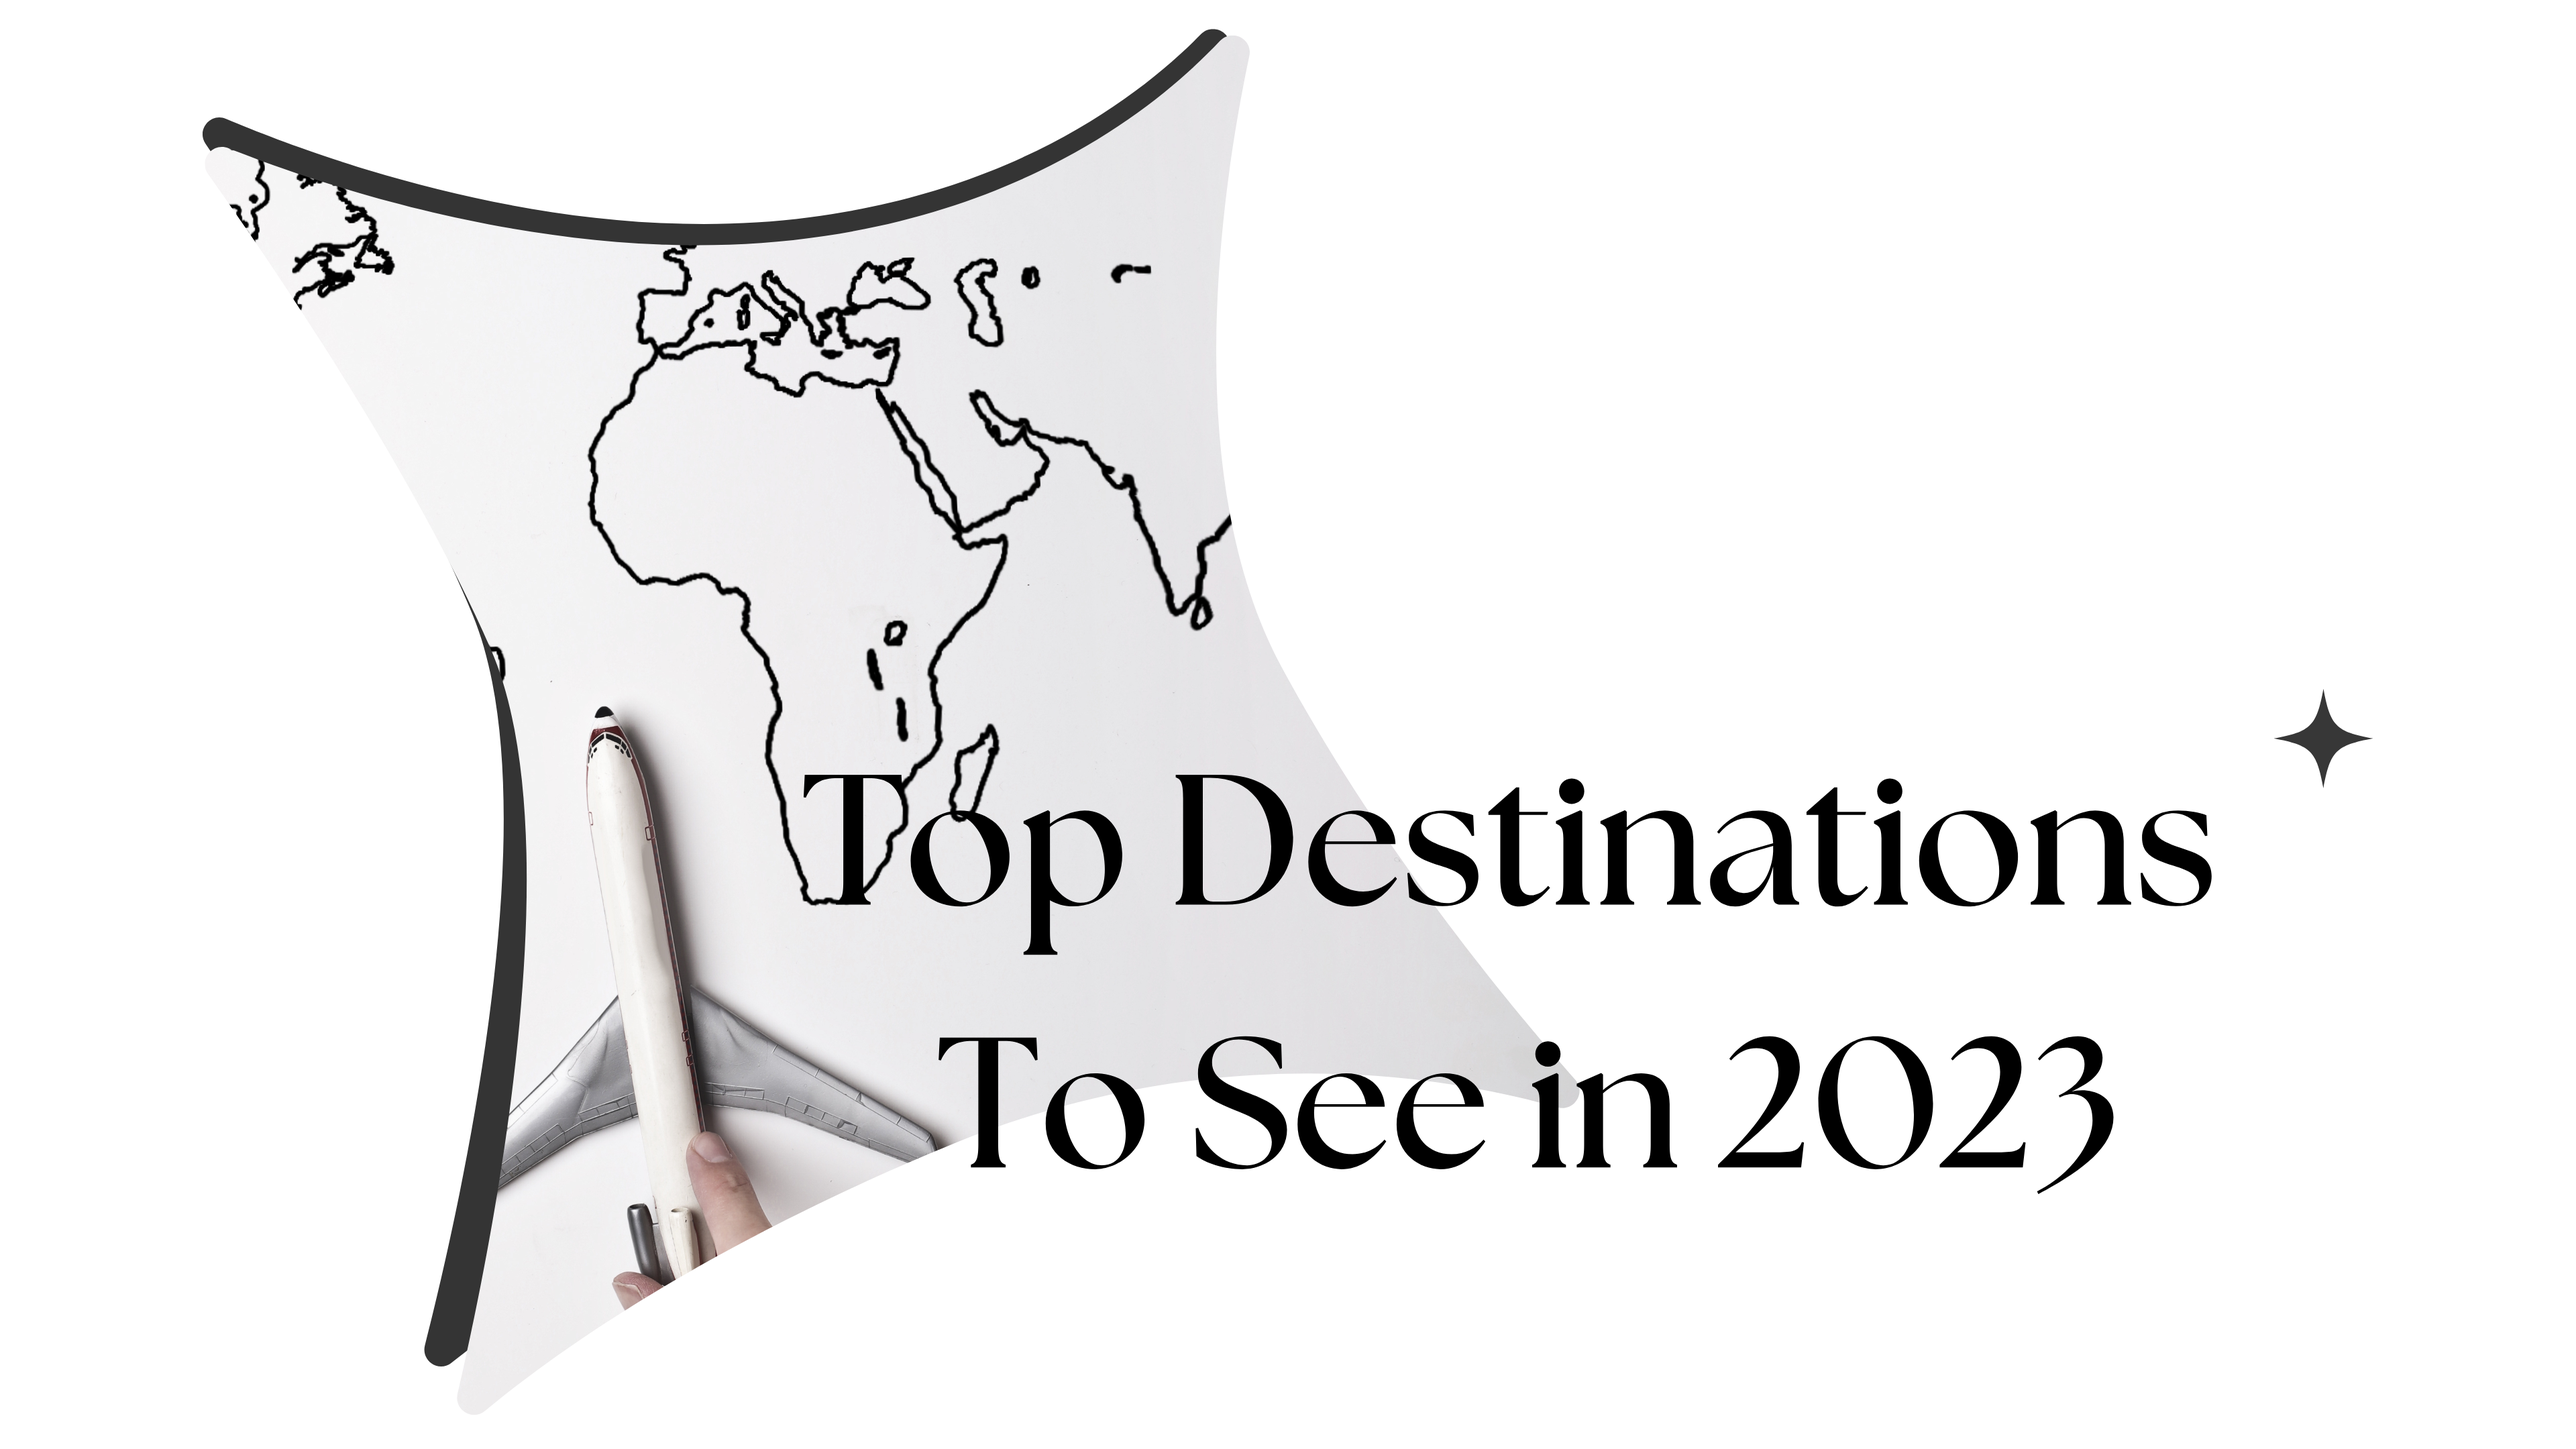
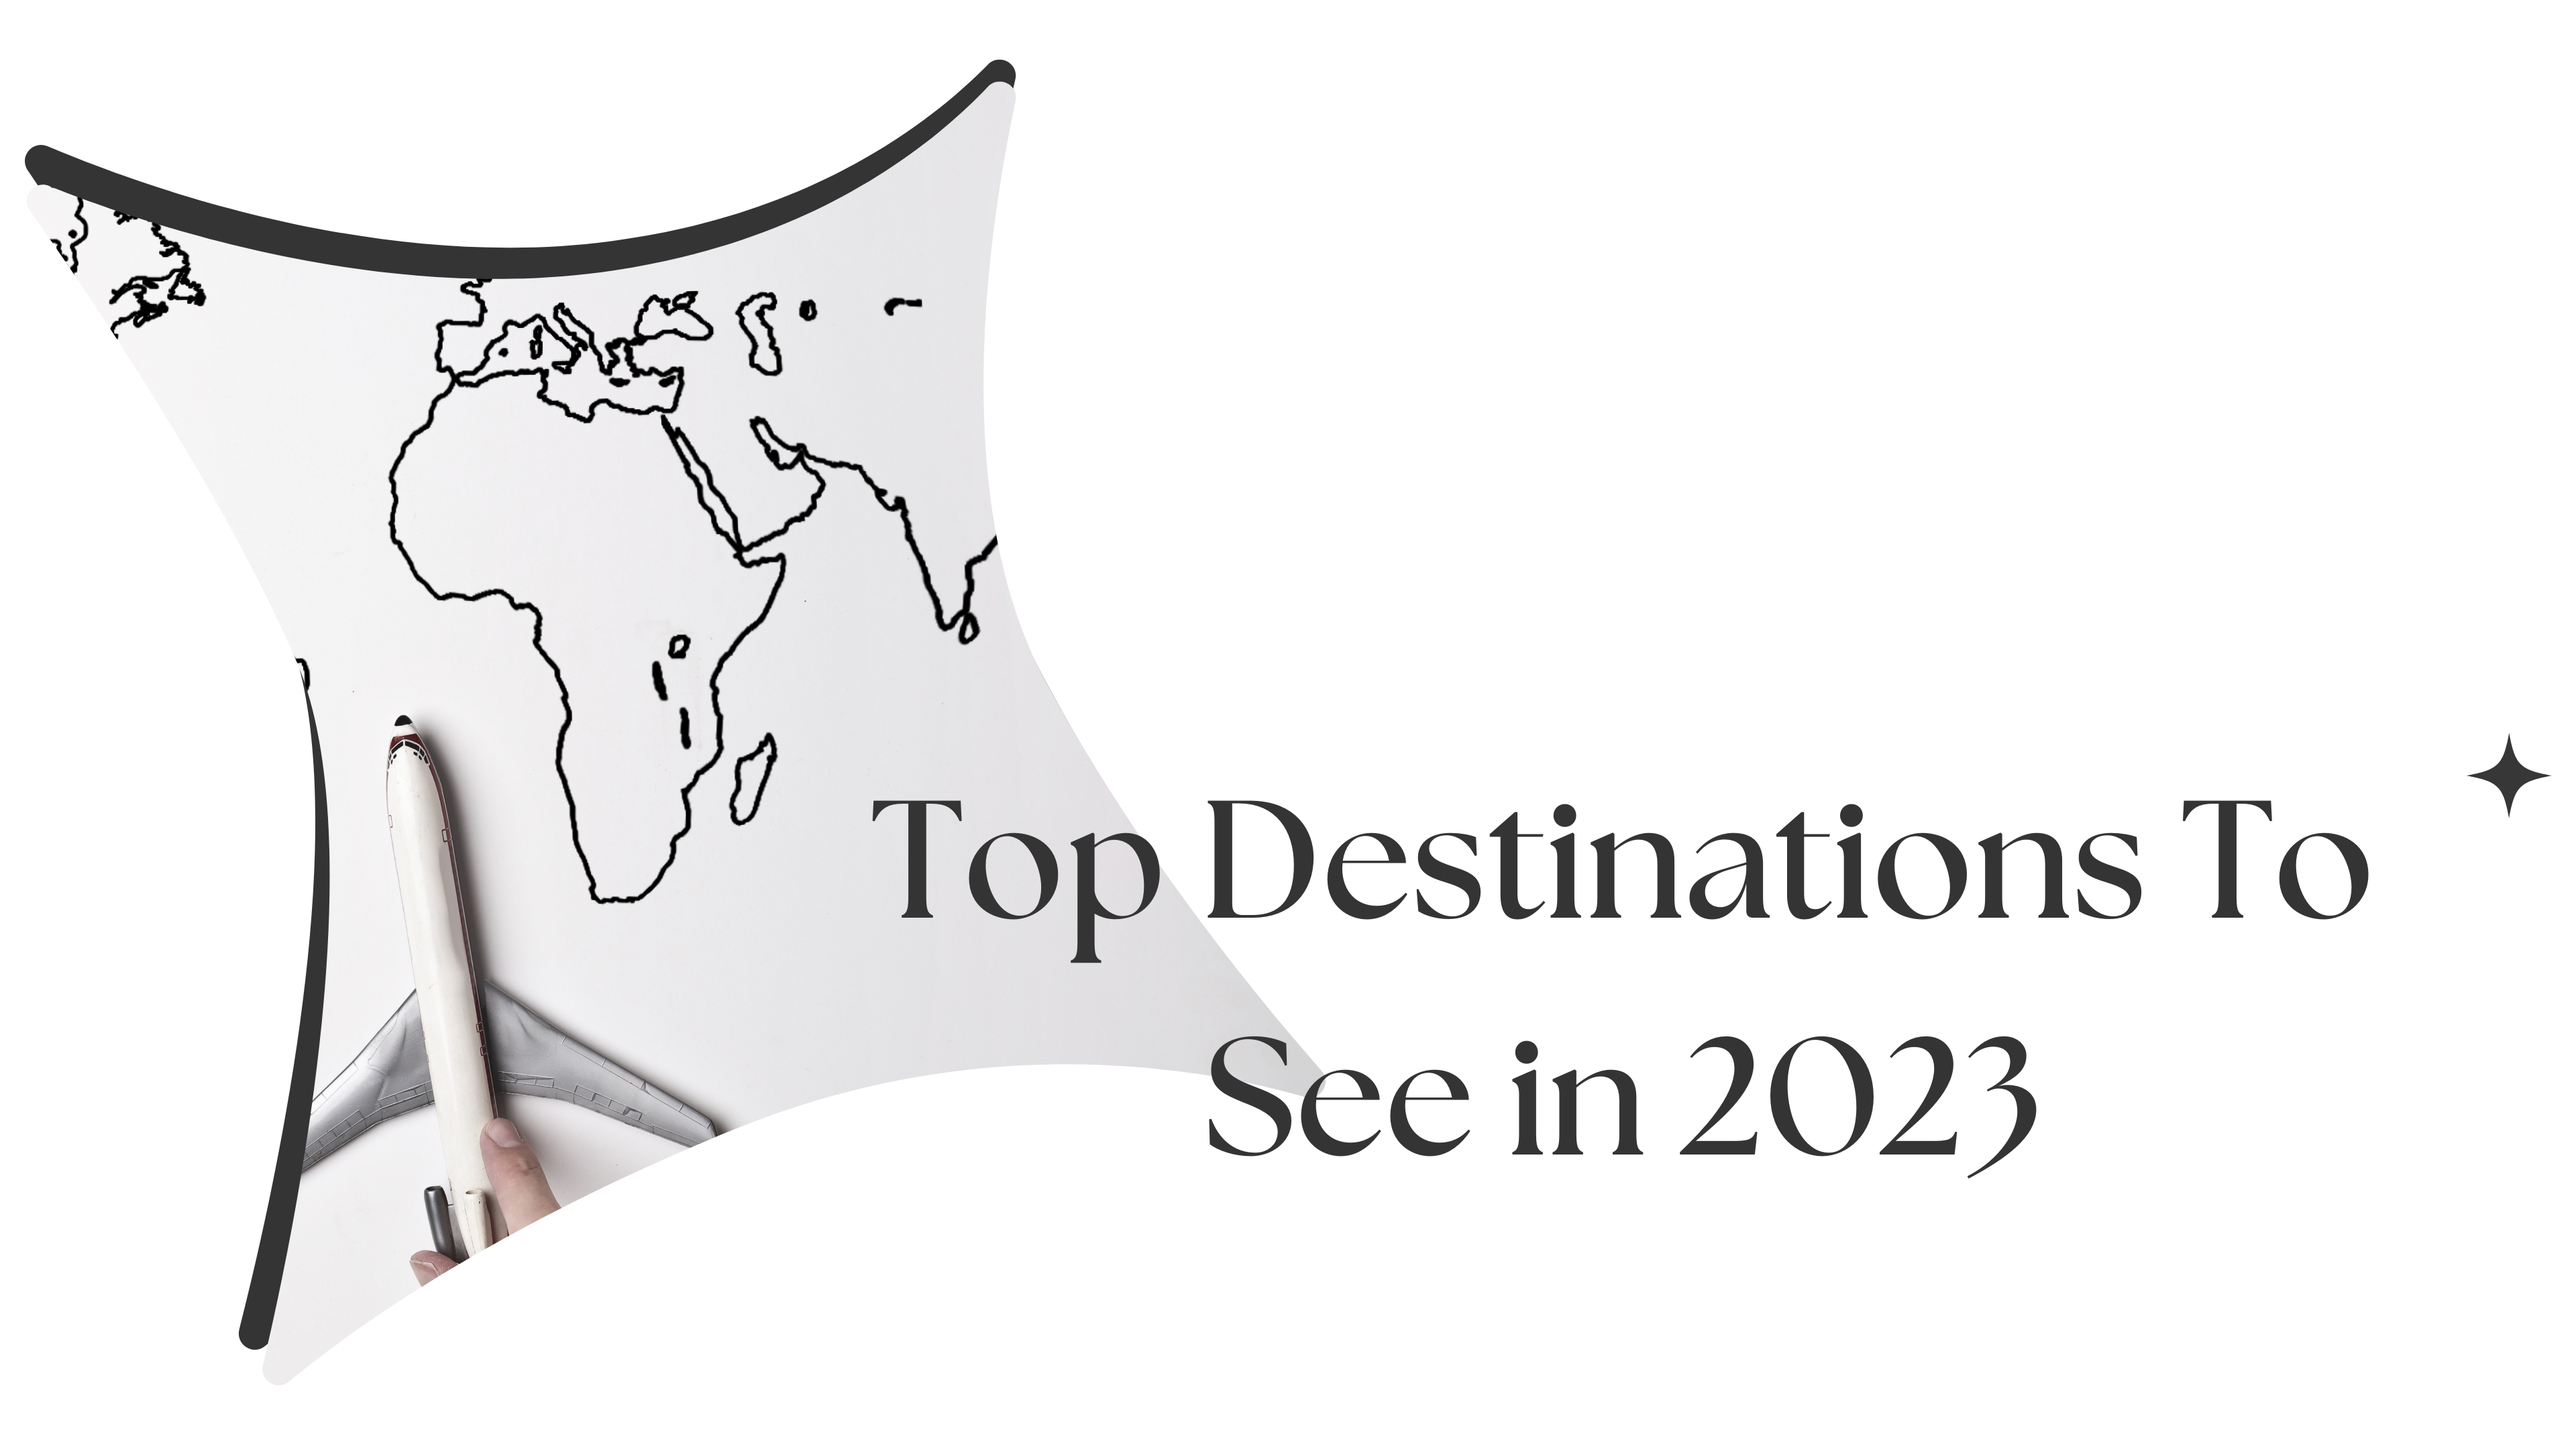
landing page css

Changed region(s): [[0.0, 0.0, 0.9375, 0.9616], [0.875, 0.4963, 0.9375, 0.5273], [0.9688, 0.5273, 1.0, 0.5583]]

diff --git a/client/src/components/LandingPage.js b/client/src/components/LandingPage.js
@@ -1,23 +1,96 @@
-import React from 'react'
+// import React from 'react'
 import Home from './Home'
+import React, { useState } from "react";
+import {BrowserRouter as Switch, Route} from "react-router-dom";
+// import { Switch, Routes } from "react-router-dom";
+import Login from "./Login";
+import Signup from "./Signup";
+import NavBar from "./NavBar";
+import DestinationsPage from "./DestinationsPage";
+import Profile from "./Profile";
+// import dots from './dots.png'
+// import dots2 from './dots2.png'
+import MapImg from './MapImg.png'
+import Spiral from './spiral.png'
+
 
 function LandingPage(){
 
 
-    return(
-        <div>
-            <h1>Roam</h1>
-            <div>Login or Signup</div>
-            <h1> Top Destinations to See in 2023</h1>
-            <h4> Email:</h4>
-            <h5> roam@traveldestinations.co</h5>
-            <h4> Web</h4>
-            <h5> roam.com</h5>
-        </div>
+//     return(
+//         <div>
+//             <h1>Roam</h1>
+//             <div>Login or Signup</div>
+//             <h1> Top Destinations to See in 2023</h1>
+//             <h4> Email:</h4>
+//             <h5> roam@traveldestinations.co</h5>
+//             <h4> Web</h4>
+//             <h5> roam.com</h5>
+//         </div>
         
-    )
+//     )
+// }
+
+const [page, setPage] = useState("/");
+
+return (
+
+  <div>
+  {/* <div> <img className='dots' src={dots} alt="Dots" /></div> */}
+  <div> <img className='MapImg' src={MapImg} alt="MapImg" /></div>
+  <div> <img className='spiral' src={Spiral} alt="spiral" /></div>
+  {/* <div> <img className='dots2' src={dots2} alt="Dots2" /></div> */}
+  <div className='bottomleft'>
+  <h1 className='EMAIL'>EMAIL US</h1>
+  <a href="roam@traveldestinations.co" className='email'>roam@traveldestinations.co</a>
+  <h1 className='web'>WEB</h1>
+  <a href="roam.com" className='website'>roam.com</a>
+  </div>
+  <div>
+    <NavBar onChangePage={setPage} />
+    <Switch>
+      <Route exact path="/"
+      element={
+        <div>
+          <Home/>
+          </div>
+      }>
+      
+      </Route>
+      <Route path="/signup"element={
+        <div>
+          <Signup/>
+          </div>
+      }>
+      </Route>
+      <Route path="/login"element={
+        <div>
+          <Login/>
+          </div>
+      }>
+      </Route>
+      <Route path="/destinations"element={
+        <div>
+         HEllo
+          </div>
+      }>
+      </Route>
+      <Route path="/profile"element={
+        <div>
+          <Profile/>
+          </div>
+      }>
+      </Route>
+      <Route path="*"element={
+        <h1>404 not found</h1>
+      }>
+    
+      </Route>
+    </Switch>
+
+  </div>
+  </div>
+);
 }
-
-
 
 export default LandingPage

diff --git a/client/src/index.css b/client/src/index.css
@@ -10,17 +10,18 @@
     }
 
     body {
-        background: linear-gradient(to top right, #f9a01b, #e6e6e6, #e6e6e6, #e6e6e6,#e6e6e6, #8478b6);
+        background: no-repeat linear-gradient(to top right, #ffb867b7, rgb(243, 211, 164), #e6e6e6,#e6e6e6, #e6e6e6, #e6e6e6,#e6e6e6, #8478b677, #8478b6);
+        background-attachment: fixed;
+        overflow: hidden;
       }
       
       .logo {
         display: block;
-        /* margin: 0 auto; */
         float: left;
         width: 650px;
         height: 350px;
         position: absolute; left: -150px;
-        margin-top: 10px;
+        margin-top:-80px;
         margin-bottom: -90px;
         
     }
@@ -36,12 +37,83 @@
         padding-left: 200px;
         }
 
+        .dots2 {
+            display: block;
+            margin: 0 auto;
+            width: 340px;
+            height: 180px;
+            position: static;
+            margin-top: -60px;
+            margin-bottom: -30px;
+            padding-left: 1115px;
+            }
+
       .MapImg {
         position: static;
-        width: 900px;
-        height: 500px;
-        padding-top: 170px;
-        padding-left: 200px;
+        width: 830px;
+        height: 429px;
+        padding-top: 190px;
+        padding-left: 290px;
     }
+
+    .spiral {
+    
+        width: 160em;
+        height: auto;   
+        margin-top: -51em; 
+        margin-left: -5.55em; 
+           
+    }
+    
+    .EMAIL{
+        color: rgb(34, 34, 34);
+        font-size: large;
+        font-weight: bolder;
+        font-family: Arial, Helvetica, sans-serif;
+        /* font-family: Cambria, Cochin, Georgia, Times, 'Times New Roman', serif; */
+        padding-left: 60px;
+        margin-top: -32em;
+    }
+    .email {
+        color: #2761d4;
+        transition: color 0.2s;
+        font-family: monospace;
+        text-decoration: none; 
+        padding-left: 60px;
+        font-size: large;
+    }
+     .email:hover{
+        color: #8478b6;
+     }
+
+    .web {
+        color: rgb(34, 34, 34);
+        font-size: large;
+        font-weight: bolder;
+        font-family: Arial, Helvetica, sans-serif;
+        /* font-family: Cambria, Cochin, Georgia, Times, 'Times New Roman', serif; */
+        padding-left: 60px;
+    }
+
+    .website {
+        color: #2761d4;
+        font-size: large;
+        transition: color 0.2s;
+        font-family: monospace;
+        text-decoration: none; 
+        padding-left: 60px;
+    }
+    .website:hover {
+        color: #8478b6;
+    }
+
+    .bottomleft {
+        position: relative; 
+        top: -20px;
+        left: 30px;
+
+    }
+
+   
 
     

diff --git a/client/src/components/Home.js b/client/src/components/Home.js
@@ -7,6 +7,7 @@ import NavBar from "./NavBar";
 import DestinationsPage from "./DestinationsPage";
 import Profile from "./Profile";
 import dots from './dots.png'
+import dots2 from './dots2.png'
 import MapImg from './MapImg.png'
 
 
@@ -20,6 +21,7 @@ function Home(){
       <div>
       <div> <img className='dots' src={dots} alt="Dots" /></div>
       <div> <img className='MapImg' src={MapImg} alt="MapImg" /></div>
+      <div> <img className='dots2' src={dots2} alt="Dots2" /></div>
       <div>
         <NavBar onChangePage={setPage} />
         <Switch>

diff --git a/client/src/components/NavBar.js b/client/src/components/NavBar.js
@@ -11,7 +11,7 @@ function NavBar({ onChangePage }) {
 
     return (
         <nav>
-            <h1>ROAM</h1>
+            
         <div className="nav-links">
             <a  href="/">Home</a>
             <a  href="/login">Login</a>

diff --git a/client/src/components/App.js b/client/src/components/App.js
@@ -12,7 +12,7 @@ function App() {
     <div>
       <div> <img className='logo' src={Logo} alt="Logo" /></div>
     <div>
-     <Home/>
+     <LandingPage/>
     </div>
     </div>
   );
